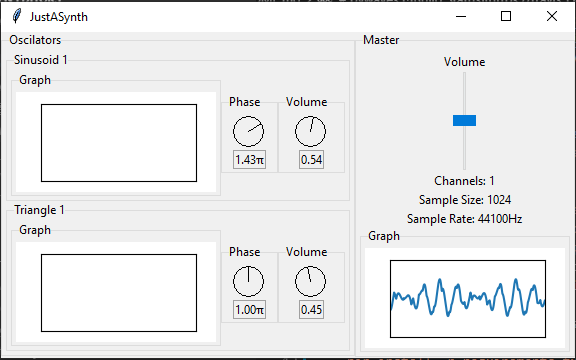
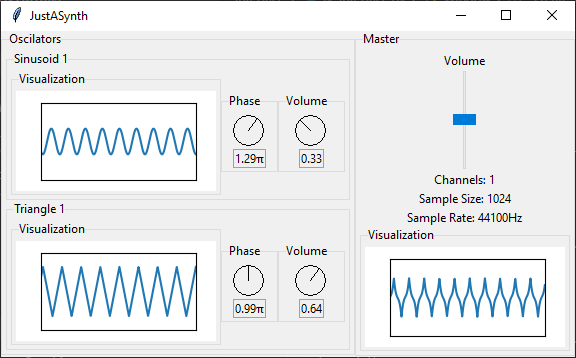
Oscilator plot windows now sample the waveform
* The visualization Frame is now a independent component that expects data as a nparray or a datasource as a function.
  - It has two utility methods:
    - plot() whitch updates the data to be drawn
   - update_canvas() whitch draws the updated data
  - they are separated so drawing can be done without generating another copy of the data unnecessarily (the oscilator plot only need to be updated when one of its controls change).

diff --git a/interface/tk_interface.py b/interface/tk_interface.py
@@ -1,19 +1,12 @@
 import tkinter
 import logging
-import math
-import numpy as np
-
-from matplotlib.backends.backend_tkagg import (FigureCanvasTkAgg, NavigationToolbar2Tk)
-from matplotlib.figure import Figure
 
 from tkinter.ttk import Frame
 from tkinter.ttk import Label
 from tkinter.ttk import LabelFrame
 from tkinter.ttk import Scale
-from tkinter.ttk import Button
-from tkinter import TclError
 
-from .widgets import (Knob, SynthFrame, KnobFrame)
+from .widgets import (Knob, SynthFrame, KnobFrame, VisualizationFrame, OscilatorFrame)
 
 LOGGER_NAME = 'TkInterface'
 
@@ -32,18 +25,8 @@ class Window(Frame):
     self.sampler = synth.sampler
     self.oscilators = synth.oscilators
 
-    self.lines = {}
-    self.canvas = {}
-    self.axes = {}
-
-    for osc in self.oscilators:
-      self.lines[osc] = None
-      self.canvas[osc] = None
-      self.axes[osc] = None
-
-    self.lines["master"] = None
-    self.canvas["master"] = None
-    self.axes["master"] = None
+    self.plot_frames = []
+    self.update_frames = []
 
     self._create_window()
 
@@ -95,7 +78,10 @@ class Window(Frame):
       text=f"Sample Rate: {self.player.sample_rate}Hz"
     ).pack()
 
-    self._create_graph_frame("master", master_frame, ylim=(-1,1)).pack()
+    graph_frame = self._create_graph_frame(master_frame, lambda: self.player.master_sample)
+    graph_frame.pack()
+    
+    self.plot_frames.append(graph_frame)
 
     return master_frame
 
@@ -103,86 +89,38 @@ class Window(Frame):
     osc_section = SynthFrame(self, "Oscilators")
 
     for osc in self.oscilators:
-      self._create_oscilator(osc_section, osc).pack()
+      osc_frame = self._create_oscilator(osc_section, osc)
+      osc_frame.pack()
+      self.update_frames.append(osc_frame)
 
     return osc_section
 
   def _create_oscilator(self, master, oscilator):
-    osc_frame = SynthFrame(
+    osc_frame = OscilatorFrame(
       master,
-      text=oscilator.name
+      oscilator,
+      self.sampler.sample_size / self.sampler.sample_rate,
+      self.sampler.sample_rate
     )
-
-    self._create_graph_frame(oscilator, osc_frame).pack(side=tkinter.LEFT)
-    
-    KnobFrame(
-      osc_frame,
-      "Phase",
-      command=oscilator.set_phase,
-      max_value=2 * math.pi,
-      label_format=lambda x: f"{(x/math.pi):.2f}π"
-    ).pack(side=tkinter.LEFT)
-    
-    KnobFrame(
-      osc_frame,
-      "Volume",
-      command=oscilator.set_volume,
-      label_format="{:.2f}"
-    ).pack(side=tkinter.LEFT)
 
     return osc_frame
 
-  def _create_graph_frame(self, osc, master_widget, ylim=(-1,1)):
-    graph_frame = LabelFrame(
-        master_widget,
-        text="Graph",
-        relief=tkinter.GROOVE,
-        borderwidth=5
-      )
-
-    fig = Figure((2,1))
-
-    ax = fig.add_subplot(111)
-    self.axes[osc] = ax
-
-    line, = ax.plot(0)
-
-    ax.set_xlim((0, 1/self.player.sample_rate))
-    ax.set_ylim(ylim)
-    ax.set_xticks([])
-    ax.set_yticks([])
-
-    self.lines[osc] = line
-
-    canvas = FigureCanvasTkAgg(fig, master=graph_frame)
-    canvas.draw()
-    canvas.get_tk_widget().pack()
-
-    self.canvas[osc] = canvas
+  def _create_graph_frame(self, master, data_source):
+    graph_frame = VisualizationFrame(
+      master,
+      data_source
+    )
 
     return graph_frame
 
   def update_canvas(self):
-    master_data = self.player.master_sample
-
-    if master_data is not None:
-      self.update_osc_data('master', np.arange(len(master_data)), master_data)
+    for frame in self.plot_frames:
+      frame.plot()
     
-    for canvas in self.canvas.values():
-      try:
-        canvas.draw()
-        canvas.flush_events()
-      except TclError:
-        break
+    for frame in self.plot_frames + self.update_frames:
+      frame.update_canvas()
 
     self.after(0, self.update_canvas)
-
-  def update_osc_data(self, osc, time_axis, sample, xlimits=None):
-    if xlimits is None:
-      xlimits = (0, len(sample))
-    
-    self.lines[osc].set_data(time_axis, sample)
-    self.axes[osc].set_xlim(xlimits)
 
 class TkInterface(object):
   def __init__(self, synth, log=None):
@@ -203,5 +141,4 @@ class TkInterface(object):
     self.window.destroy()
     self.root.destroy()
 
-  def update(self, osc, time_axis, sample, xlimits):
-    self.window.update_osc_data(osc, time_axis, sample, xlimits)
+  def update(self, osc, time_axis, sample, xlimits): pass

diff --git a/interface/widgets.py b/interface/widgets.py
@@ -1,7 +1,12 @@
 import tkinter as tk
-from tkinter.ttk import Label
-from tkinter.ttk import LabelFrame
+from tkinter import ttk
+
 import math
+
+import numpy as np
+
+from matplotlib.backends.backend_tkagg import (FigureCanvasTkAgg, NavigationToolbar2Tk)
+from matplotlib.figure import Figure
 
 class Knob(tk.Frame):
   def __init__(self, parent, radius=25, lock=False, max_angle=360, min_angle=0, init_angle=None, step_ratio=1, command=None, **kwargs):
@@ -95,8 +100,8 @@ class Knob(tk.Frame):
   def set_angle(self, angle):
     self.angle = max(self.min_angle, min(angle, self.max_angle)) if self.lock else angle % (abs(self.max_angle) - abs(self.min_angle))
 
-class SynthFrame(LabelFrame):
-  """ Just a tk.LabelFrame with Groove relief and 5px borderwidth"""
+class SynthFrame(ttk.LabelFrame):
+  """ Just a ttk.LabelFrame with Groove relief and 5px borderwidth"""
   def __init__(self, master, text):
     super().__init__(
       master,
@@ -127,7 +132,7 @@ class KnobFrame(SynthFrame):
       command=self._update_value
     ).pack()
     
-    Label(self, textvariable=self.text_var, borderwidth=1, relief="solid").pack()
+    ttk.Label(self, textvariable=self.text_var, borderwidth=1, relief="solid").pack()
 
   def _update_value(self, knob_value):
     if self.invert_value:
@@ -146,3 +151,75 @@ class KnobFrame(SynthFrame):
         lbl_val = self.label_format.format(value)
 
     self.text_var.set(lbl_val)
+
+class VisualizationFrame(SynthFrame):
+  def __init__(self, master, data, name="Visualization"):
+    super().__init__(master, name)
+    self.data = data
+    self._init_plot_components()
+  
+  def _init_plot_components(self):
+    fig = Figure((2,1))
+
+    self.ax = fig.add_subplot(111)
+    self.line, = self.ax.plot(0)
+    self.canvas = FigureCanvasTkAgg(fig, master=self)
+
+    self.ax.set_xlim((0, 1))
+    self.ax.set_ylim((-1,1))
+    self.ax.set_xticks([])
+    self.ax.set_yticks([])
+    
+    self.canvas.get_tk_widget().pack()
+
+  def plot(self):
+    data = self.data() if callable(self.data) else self.data
+    
+    data_size = len(data)
+    time_axis = np.arange(data_size)
+    xlimits = (0, data_size)
+
+    self.line.set_data(time_axis, data)
+    self.ax.set_xlim(xlimits)
+
+  def update_canvas(self):
+    try:
+      self.canvas.draw()
+      self.canvas.flush_events()
+    except tk.TclError:
+      pass
+
+class OscilatorFrame(SynthFrame):
+  def __init__(self, master, oscilator, vizualization_duration, vizualization_sample_rate):
+    super().__init__(master, oscilator.name)
+    self.oscilator = oscilator
+    
+    data_source = lambda: oscilator.wave.sample(vizualization_duration, vizualization_sample_rate)
+    self.graph_frame = VisualizationFrame(self, data_source)
+    self.graph_frame.pack(side=tk.LEFT)
+    
+    KnobFrame(
+      self,
+      "Phase",
+      command=self.update_phase,
+      max_value=2 * math.pi,
+      label_format=lambda x: f"{(x/math.pi):.2f}π"
+    ).pack(side=tk.LEFT)
+    
+    KnobFrame(
+      self,
+      "Volume",
+      command=self.update_volume,
+      label_format="{:.2f}"
+    ).pack(side=tk.LEFT)
+  
+  def update_phase(self, value):
+    self.oscilator.set_phase(value)
+    self.graph_frame.plot()
+  
+  def update_volume(self, value):
+    self.oscilator.set_volume(value)
+    self.graph_frame.plot()
+  
+  def update_canvas(self):
+    self.graph_frame.update_canvas()
